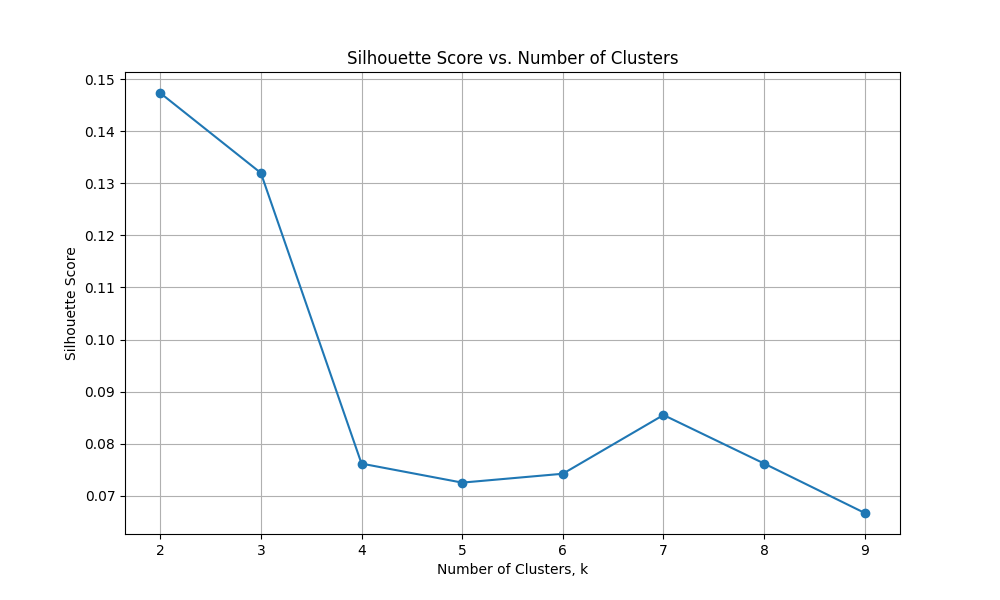
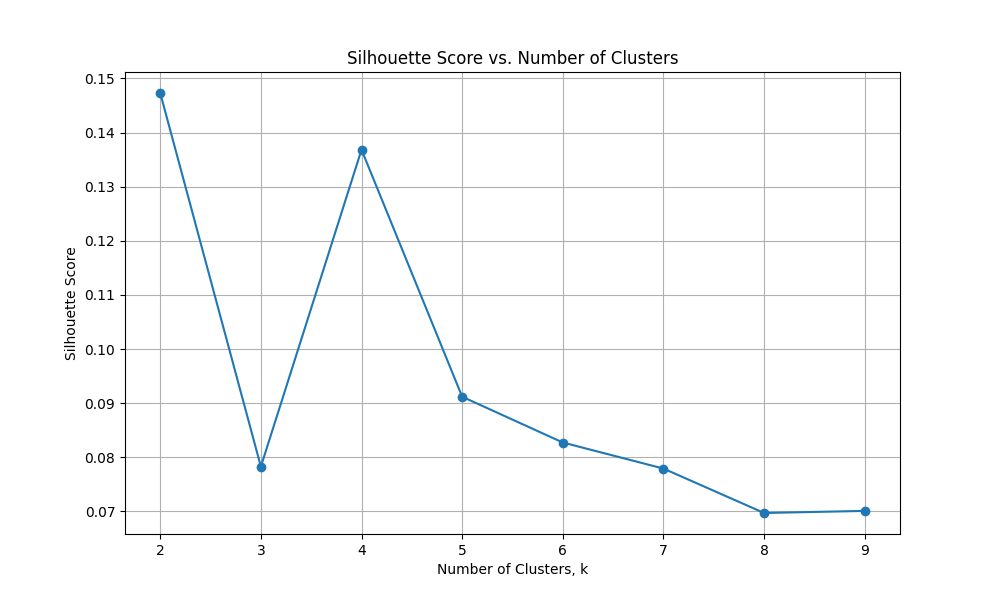
refine kmeans++

diff --git a/COMP527/Assignment/KMeansplusplus.py b/COMP527/Assignment/KMeansplusplus.py
@@ -75,28 +75,25 @@ def ComputeDistance(point1, point2, axis=0):
         print("Value Error in ComputeDistance: Invalid input. The points must have the same shape.")
     except Exception as e:
         print(f"Error in ComputeDistance: {e}")
-        
 
 def initialSelection(data, k):
-    """
-    Randomly select k points from the data as the initial centroids.
-    
-    Args:
-        data (pandas.DataFrame): The dataset.
-        k (int): The number of clusters.
-    
-    Returns:
-        pandas.DataFrame: The initial centroids.
-    """
-    
-    try:
-        np.random.seed(SEED)  
-        indices = np.random.choice(data.shape[0], size=k, replace=False)   # randomly select k points from the data. replace: not allow the same point to be selected
-        return data[indices, :] # row indices and all columns
-    except ValueError as e:
-        print(f"ValueError in initialSelection: {e}")
-    except Exception as e:
-        print(f"Error in initialSelection: {e}")
+    n = data.shape[0]
+    first_idx = np.random.choice(n)
+    centroids = [data[first_idx]]
+
+    distances = np.linalg.norm(data - data[first_idx], axis=1)
+
+    for _ in range(1, k):
+        probabilities = distances ** 2
+        probabilities /= probabilities.sum()
+        next_centroid_idx = np.random.choice(n, p=probabilities)
+        centroids.append(data[next_centroid_idx])
+
+        new_distances = np.linalg.norm(data - data[next_centroid_idx], axis=1)
+        distances = np.minimum(distances, new_distances)
+
+    return np.array(centroids)  # Return centroids as a numpy array.
+
 
 
 def assignClusterIds(data, centers):
@@ -144,9 +141,12 @@ def computeClusterRepresentatives(data, cluster_IDs, k):
         new_centers = [] # store the new centroids
         for i in range(k): # for each cluster k
             cluster_points = data[cluster_IDs == i] # all the points in the cluster i
-            if len(cluster_points) > 0:
+            if len(cluster_points) == 0:
+                new_centers.append(data[np.random.choice(data.shape[0])])
+            else:
                 cluster_means = np.mean(cluster_points, axis = 0) # calculate the mean of the points in the cluster, assign to the new center
                 new_centers.append(cluster_means)
+                
         
         if len(new_centers) == 0:
             raise ValueError("ValueError in computeClusterRepresentatives: No points in the clusters.")
@@ -308,13 +308,24 @@ def plot_silhouttee(range_k, silhouette_scores):
 
 def main():
     data = load_dataset()
-    range_k = range(2, 10) # actually, k should be larger than 1
+    if data is None:
+        print("Failed to load data. Exiting.")
+        return
+
+    range_k = range(2, 10)  # It's good that k starts from 2 as k-means doesn't work with k=1
     silhouette_scores = []
 
     for k in range_k:
-        cluster_IDs, centers = kmeansplusplus(data, k, max_iter = 100)
+        cluster_IDs, centers = kmeansplusplus(data, k, max_iter=100)
+        if cluster_IDs is None or centers is None:
+            print(f"Failed to perform k-means++ for k={k}. Skipping.")
+            continue
+
         silhouette_score = calculate_silhouette(data, cluster_IDs)
-        silhouette_scores.append(silhouette_score)
+        if silhouette_score is not None:
+            silhouette_scores.append(silhouette_score)
+        else:
+            print(f"Failed to calculate silhouette score for k={k}.")
 
     plot_silhouttee(range_k, silhouette_scores)
 

diff --git a/COMP527/Assignment/BisectingKMeans.py b/COMP527/Assignment/BisectingKMeans.py
@@ -365,10 +365,10 @@ def bisecting_kmeans(data, num_clusters, max_iter):
             split_cluster_IDs, _ = kmeans(largest_cluster, 2, max_iter)
 
             # get the two new clusters, and calculate their SSQ
-            cluster1 = largest_cluster[split_cluster_IDs == 0]
-            cluster2 = largest_cluster[split_cluster_IDs == 1]
+            cluster0 = largest_cluster[split_cluster_IDs == 0]
+            cluster1 = largest_cluster[split_cluster_IDs == 1]
+            clusters.append((cluster0, computeSumfSquare(cluster0)))
             clusters.append((cluster1, computeSumfSquare(cluster1)))
-            clusters.append((cluster2, computeSumfSquare(cluster2)))
 
         return [cluster for cluster, _ in clusters] # return the clusters without SSQ
 
